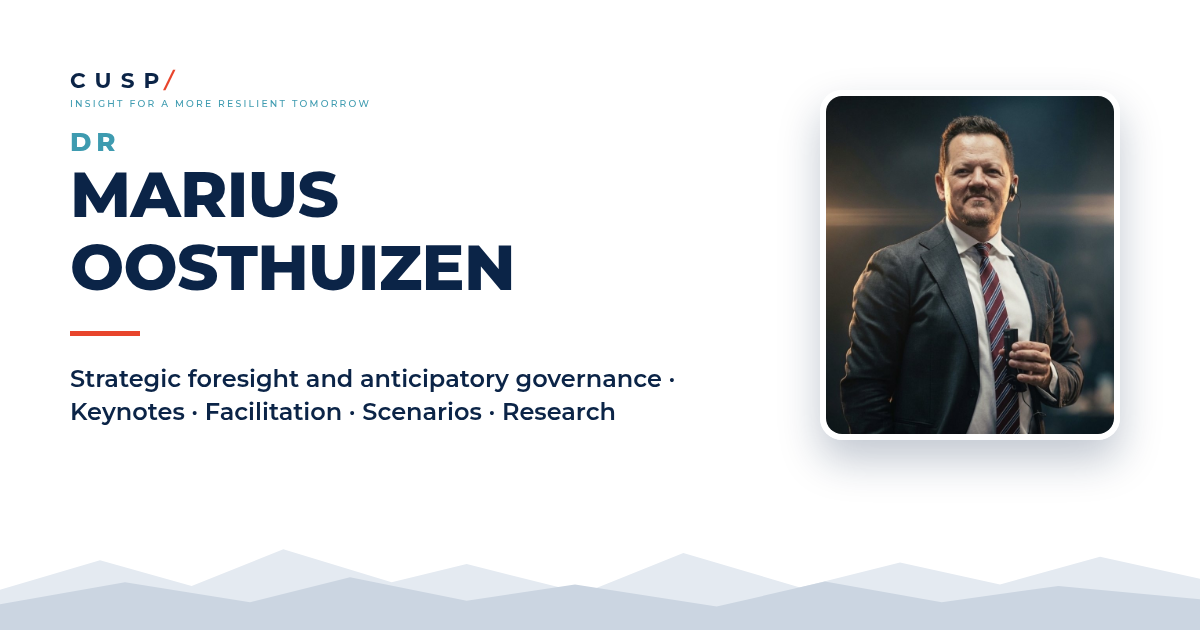
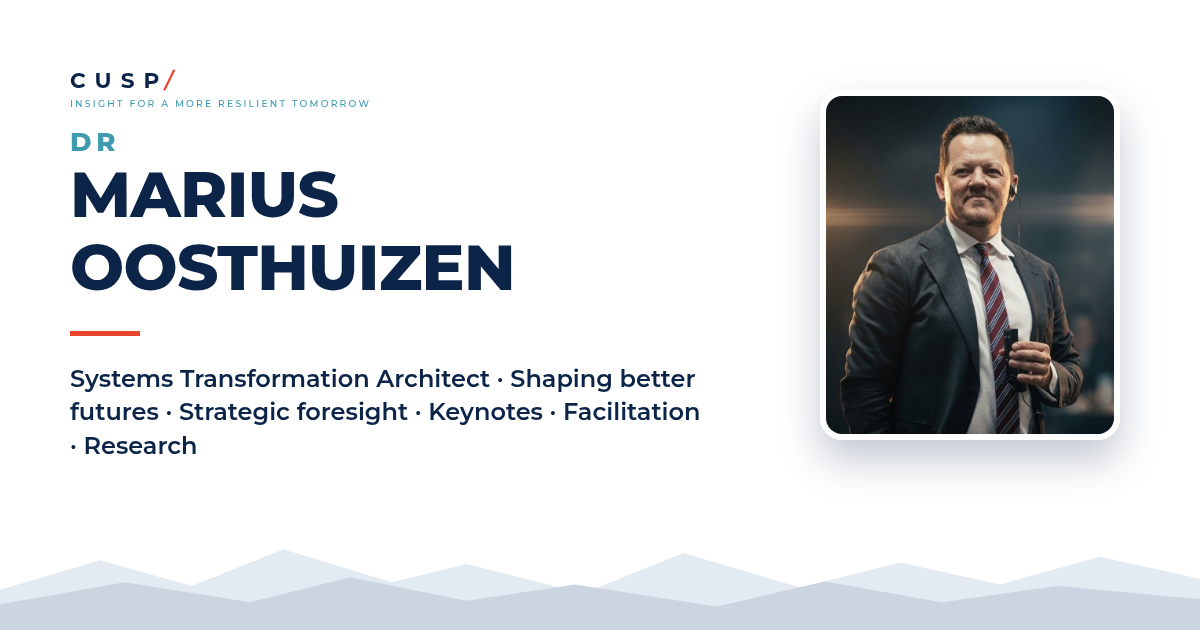
Position as Systems Transformation Architect; add CUSP approach (six practices), STA paper, updated preview image

Changed region(s): [[0.0617, 0.573, 0.5858, 0.7238]]

diff --git a/index.html b/index.html
@@ -3,8 +3,8 @@
 <head>
 <meta charset="utf-8">
 <meta name="viewport" content="width=device-width,initial-scale=1">
-<title>Dr Marius Oosthuizen | CUSP Strategic Foresight</title>
-<meta name="description" content="Dr Marius Oosthuizen is a South African futurist and specialist in strategic foresight and anticipatory governance. Keynotes, facilitation, scenario planning, consulting, research and teaching, from Pretoria to the world.">
+<title>Dr Marius Oosthuizen | Systems Transformation Architect | CUSP</title>
+<meta name="description" content="Dr Marius Oosthuizen is a systems transformation architect and strategic foresight specialist who helps leaders and institutions anticipate and shape better futures through ethical foresight, systems thinking and inclusive dialogue. Keynotes, facilitation, scenarios, consulting, research and teaching.">
 <meta name="author" content="Dr Marius Oosthuizen">
 <meta name="theme-color" content="#0B2447">
 <!-- When the site has its final address, set it here and in og:url / og:image (absolute URLs). -->
@@ -12,16 +12,16 @@
 <meta property="og:url" content="https://mariusoost-sketch.github.io/">
 <meta property="og:type" content="website">
 <meta property="og:site_name" content="CUSP Strategic Foresight">
-<meta property="og:title" content="Dr Marius Oosthuizen | CUSP Strategic Foresight">
-<meta property="og:description" content="Strategic foresight and anticipatory governance for leaders in Africa and beyond: keynotes, facilitation, scenario planning, consulting, research and teaching.">
+<meta property="og:title" content="Dr Marius Oosthuizen | Systems Transformation Architect | CUSP">
+<meta property="og:description" content="Shaping better futures: helping people and institutions sense change, see systems, build coalitions, design processes and shift systems toward preferable futures.">
 <meta property="og:image" content="https://mariusoost-sketch.github.io/assets/img/og-image.png">
 <meta property="og:image:width" content="1200">
 <meta property="og:image:height" content="630">
 <meta property="og:image:alt" content="CUSP Strategic Foresight: Dr Marius Oosthuizen, with the CUSP cone of plausibility">
 <meta property="og:locale" content="en_ZA">
 <meta name="twitter:card" content="summary_large_image">
-<meta name="twitter:title" content="Dr Marius Oosthuizen | CUSP Strategic Foresight">
-<meta name="twitter:description" content="Strategic foresight and anticipatory governance: keynotes, facilitation, scenario planning, consulting, research and teaching.">
+<meta name="twitter:title" content="Dr Marius Oosthuizen | Systems Transformation Architect | CUSP">
+<meta name="twitter:description" content="Shaping better futures: helping people and institutions sense change, see systems, build coalitions, design processes and shift systems toward preferable futures.">
 <meta name="twitter:image" content="https://mariusoost-sketch.github.io/assets/img/og-image.png">
 <link rel="icon" href="assets/img/favicon.svg" type="image/svg+xml">
 <link rel="icon" href="assets/img/favicon-32.png" sizes="32x32" type="image/png">
@@ -35,7 +35,7 @@
   "@type":"Person",
   "name":"Marius Oosthuizen",
   "honorificPrefix":"Dr",
-  "jobTitle":"Strategic foresight and anticipatory governance specialist; Professor of Foresight, Future Readiness Academy (Abu Dhabi)",
+  "jobTitle":"Systems Transformation Architect; strategic foresight and anticipatory governance specialist; Professor of Foresight, Future Readiness Academy (Abu Dhabi)",
   "email":"mailto:mariusoost@gmail.com",
   "address":{"@type":"PostalAddress","addressLocality":"Pretoria","addressCountry":"ZA"},
   "worksFor":{"@type":"Organization","name":"CUSP Strategic Foresight","foundingDate":"2015"},
@@ -73,11 +73,11 @@
 <section class="hero" aria-labelledby="hero-title">
   <div class="wrap hero-grid">
     <div>
-      <p class="eyebrow">CUSP Strategic Foresight · Pretoria, South Africa</p>
+      <p class="eyebrow">CUSP · Shaping better futures · Pretoria, South Africa</p>
       <h1 id="hero-title"><span class="dr">Dr</span>Marius Oosthuizen</h1>
-      <p class="title">Futurist · Strategic foresight and anticipatory governance specialist · Professor of Foresight, Future Readiness Academy (Abu Dhabi)</p>
+      <p class="title">Systems Transformation Architect · Strategic foresight and anticipatory governance · Professor of Foresight, Future Readiness Academy (Abu Dhabi)</p>
       <div class="rule" aria-hidden="true"></div>
-      <p class="lede">I help governments, international organisations and business leaders <span class="hl">see ahead, test their choices against plausible futures</span> and turn that foresight into strategy, policy and institutional capability, with a focus on human-centric systems change in Africa.</p>
+      <p class="lede">I help people and institutions <span class="hl">sense change, see systems, build coalitions, design processes and shift systems toward preferable futures</span>, working with governments, international organisations and business, with a focus on human-centric systems change in Africa.</p>
       <div class="hero-ctas">
         <a class="btn btn-primary" href="mailto:mariusoost@gmail.com?subject=Book%20Marius%3A%20enquiry%20via%20the%20CUSP%20website">Book Marius <span aria-hidden="true">→</span></a>
         <a class="btn btn-ghost" href="#services">How I work</a>
@@ -141,8 +141,9 @@
   <div class="wrap about-grid">
     <div>
       <p class="kicker">About</p>
-      <h2 id="about-title">Helping leaders act with confidence before the future is clear</h2>
-      <p class="lede">Dr Marius Oosthuizen is a South African futurist, academic and specialist in strategic foresight and anticipatory governance, based in Pretoria.</p>
+      <h2 id="about-title">Helping leaders and institutions anticipate and shape better futures</h2>
+      <p class="lede">Dr Marius Oosthuizen is a South African futurist, systems transformation architect and specialist in strategic foresight and anticipatory governance, based in Pretoria.</p>
+      <p>His North Star is to help leaders and institutions anticipate and shape better futures through ethical foresight, systems thinking and inclusive dialogue. One question guides the work: <em>how do societies intentionally shape systems towards fair, inclusive and sustainable futures?</em></p>
       <p>His work is about building the capability to see ahead: reading weak signals, developing scenarios and turning foresight into better strategy and policy. He helps strategic leaders in government, business and civil society adapt to complex challenges, combining ethical awareness with future-oriented strategy. Through CUSP, his practice for foresight, keynotes, facilitation and teaching, he focuses on human-centric systems change in Africa, with particular attention to energy transitions, infrastructure and development.</p>
       <p>Marius is Professor of Foresight at the Future Readiness Academy (Abu Dhabi) and serves on the co-chairs committee guiding the World Energy Council's global scenarios. He is the foresight consultant on the United Nations Population Fund's (UNFPA) Six Country Demographic Resilience Review Study, and works with the United Nations Department of Economic and Social Affairs (UN DESA) and its Project Office on Governance (UNPOG) on strategic foresight and AI for the public sector.</p>
       <p>Earlier, he was Strategic Foresight Expert with UN Global Pulse in the Executive Office of the Secretary-General (2024–2025), where as lead faculty of Foresight for Systems Transformation he trained more than 300 people across UN agencies and built foresight capability for the UK Foreign, Commonwealth and Development Office. He supported the Government of Indonesia on its sea-level rise resilience policy, was Director, Scenarios at the World Energy Council (2022–2023), Director, Learning at the School of International Futures (2021–2023), and faculty at the Gordon Institute of Business Science (GIBS) at the University of Pretoria (2014–2022), where Executive MBA students voted him Best Lecturer in 2018.</p>
@@ -154,6 +155,8 @@
         <dt>Based in</dt><dd>Pretoria, South Africa. Available internationally and online.</dd>
         <dt>Current roles</dt><dd>Professor of Foresight, Future Readiness Academy (Abu Dhabi); co-chairs committee, World Energy Council global scenarios; founder, CUSP Strategic Foresight</dd>
         <dt>Qualifications</dt><dd>PhD in Public Leadership, Stellenbosch University · MA in Strategic Foresight, Regent University (USA) · MPhil in Applied Social and Political Ethics, St Augustine College · Oxford Scenarios Programme, Saïd Business School</dd>
+        <dt>Core capabilities</dt><dd>Strategic foresight and scenario planning · Systems thinking and complexity · Executive facilitation and dialogue · Policy, strategy and institutional design · Teaching, curriculum and capacity building · Ethical leadership and social dialogue · Global experience in 40+ countries</dd>
+        <dt>Scholarly foundations</dt><dd>Political economy, geo-economics, geopolitics, institutional theory, grand strategy, leadership, and foresight and futures studies</dd>
         <dt>Boards and panels</dt><dd>Executive Committee, Indlulamithi Scenarios Trust (since 2018) · Former board member, Association of Professional Futurists</dd>
       </dl>
     </aside>
@@ -166,7 +169,7 @@
     <div class="section-head">
       <p class="kicker">Services</p>
       <h2 id="services-title">Six ways to work with Marius</h2>
-      <p class="lede">From a single keynote to a multi-year national foresight capability, each engagement is designed around the decision you need to make.</p>
+      <p class="lede">Bridging ideas and action: from a single keynote to lasting foresight and scenario capability, each engagement is designed around the decision you need to make.</p>
     </div>
     <div class="cards">
       <article class="card">
@@ -219,9 +222,37 @@
 <section id="approach" aria-labelledby="approach-title">
   <div class="wrap">
     <div class="section-head">
-      <p class="kicker">Approach</p>
-      <h2 id="approach-title">From today's uncertainty to better decisions</h2>
-      <p class="lede">CUSP works with the cone of plausibility: exploring probable, plausible and possible futures, clarifying a preferred future, and drawing a strategy line from the present towards it.</p>
+      <p class="kicker">The CUSP approach</p>
+      <h2 id="approach-title">Six practices for shaping better futures</h2>
+      <blockquote class="sta-quote">
+        <p>A Systems Transformation Architect is “an integrative public leader who works across institutional, sectoral, and epistemic boundaries to help actors understand systemic conditions, imagine preferable futures, identify leverage points, build coalitions, design transformation processes, and mobilize coordinated interventions that shift the behavior, structure, and trajectory of complex systems.”</p>
+        <footer>From <cite>The Systems Transformation Architect</cite>, Marius Oosthuizen (2026)</footer>
+      </blockquote>
+    </div>
+    <ol class="practices">
+      <li><h3>Anticipate</h3><p>Sense change. Explore futures. Hold long horizons.</p></li>
+      <li><h3>Understand</h3><p>See systems. Diagnose root conditions. Find leverage.</p></li>
+      <li><h3>Convene</h3><p>Build trust across divides. Facilitate dialogue. Create shared purpose.</p></li>
+      <li><h3>Design</h3><p>Co-create strategies, policies and solutions that are practical and just.</p></li>
+      <li><h3>Transform</h3><p>Shift institutions and systems. Scale what works.</p></li>
+      <li><h3>Narrate</h3><p>Shape stories. Communicate truth. Inspire action.</p></li>
+    </ol>
+    <div class="purpose-band">
+      <p class="purpose"><span>At the centre</span>Human dignity. Justice. Common good. A flourishing future for all.</p>
+      <p class="scales"><span>Across scales</span>Local · National · Regional · Continental · Global, with multi-stakeholder coalitions</p>
+    </div>
+    <div class="impact">
+      <h3>Measures of impact</h3>
+      <ul>
+        <li>Systems better aligned to justice and the common good</li>
+        <li>Institutions more adaptive and collaborative</li>
+        <li>Communities more empowered and resilient</li>
+        <li>Futures more hopeful than inherited</li>
+      </ul>
+    </div>
+    <div class="section-head tools-head">
+      <h3>Two CUSP tools</h3>
+      <p>The cone of plausibility explores probable, plausible and possible futures, clarifies a preferred future, and draws a strategy line from the present towards it. From foresight to strategy turns that exploration into a resilient strategy response.</p>
     </div>
     <div class="approach-grid">
       <figure>
@@ -305,6 +336,7 @@
     </div>
     <div class="pubs">
       <ul class="pub-list">
+        <li><span class="pub-type">Practitioner-theory paper · May 2026</span><h3>The Systems Transformation Architect: An Emerging Professional Role for Integrative Public Leadership and Institutional Innovation</h3><p>Argues that a new professional role is emerging at the intersection of strategic foresight, systems thinking, public entrepreneurship, institutional innovation and multi-stakeholder governance: an integrative actor who helps institutions and coalitions sense systemic change, convene across boundaries, identify leverage points, shape narratives, design participatory processes and mobilise coordinated action toward preferable futures.</p></li>
         <li><span class="pub-type">Working paper · 2026</span><h3>Waves of Consequence: Introducing the Event Horizon Contagion Method for Structured Pattern Recognition</h3><p>A multi-wave foresight method integrating Three Horizons, futures wheels, cross-impact analysis and morphological scenarios, with an applied case study of geopolitical and economic contagion.</p></li>
         <li><span class="pub-type">Working paper · 2026</span><h3>Scanning Framework: National-Level Foresight</h3><p>A national-level horizon scanning architecture for public managers, with a seven-move protocol, worksheet and facilitator notes.</p></li>
         <li><span class="pub-type">White paper · 2026</span><h3>Scanning Framework: Urban Governance, Economies and Spatial Design</h3><p>A practice-led white paper for foresight practitioners and public managers, first drawn in 2018.</p></li>
@@ -404,7 +436,8 @@
   <div class="wrap footer-grid">
     <div>
       <span class="wordmark">CUSP<span class="slash" aria-hidden="true">/</span></span>
-      <p style="margin:8px 0 0">© <span id="year">2026</span> CUSP Strategic Foresight · Dr Marius Oosthuizen · Pretoria, South Africa</p>
+      <p class="footer-tag">Bridging ideas and action. Advancing fairness. Building the future, together.</p>
+      <p style="margin:4px 0 0">© <span id="year">2026</span> CUSP Strategic Foresight · Dr Marius Oosthuizen · Pretoria, South Africa</p>
     </div>
     <ul>
       <li><a href="mailto:mariusoost@gmail.com">mariusoost@gmail.com</a></li>

diff --git a/assets/css/styles.css b/assets/css/styles.css
@@ -221,3 +221,29 @@ figcaption{padding:14px 18px;font-size:.9rem;font-style:italic}
   .stats strong{font-size:1.3rem}
   .enquiry{padding:22px}
 }
+
+/* ---------- CUSP approach (v3) ---------- */
+.sta-quote{margin:8px 0 0;padding:22px 26px;border-left:4px solid var(--accent);background:var(--soft);border-radius:0 var(--radius) var(--radius) 0;max-width:860px}
+.sta-quote p{font-size:1.08rem;color:var(--ink);margin:0 0 10px;font-style:italic}
+.sta-quote footer{font:600 .82rem "Montserrat",sans-serif;color:var(--blue);letter-spacing:.04em}
+.practices{list-style:none;margin:0 0 26px;padding:0;display:grid;grid-template-columns:repeat(3,1fr);gap:18px;counter-reset:pr}
+.practices li{counter-increment:pr;background:#fff;border:1px solid var(--line);border-radius:var(--radius);padding:22px 22px 18px;position:relative;overflow:hidden}
+.practices li::after{content:"";position:absolute;left:0;right:0;bottom:0;height:4px;background:var(--grad)}
+.practices h3{font-size:1.1rem;text-transform:uppercase;letter-spacing:.12em;margin-bottom:6px;display:flex;align-items:center;gap:12px}
+.practices h3::before{content:counter(pr,decimal-leading-zero);font-size:.8rem;color:var(--accent);letter-spacing:.04em}
+.practices p{margin:0;font-size:.97rem}
+.purpose-band{display:grid;grid-template-columns:1fr 1fr;gap:18px;margin-bottom:18px}
+.purpose-band p{margin:0;background:var(--navy);color:#fff;border-radius:var(--radius);padding:20px 24px;font:600 1.02rem/1.45 "Montserrat",sans-serif}
+.purpose-band .scales{background:#fff;color:var(--navy);border:1px solid var(--line)}
+.purpose-band span{display:block;font:700 .72rem "Montserrat",sans-serif;letter-spacing:.2em;text-transform:uppercase;color:var(--teal-2);margin-bottom:6px}
+.purpose-band .scales span{color:var(--blue)}
+.impact{border:1px solid var(--line);border-radius:var(--radius);padding:22px 24px;margin-bottom:56px}
+.impact h3{font-size:.95rem;letter-spacing:.14em;text-transform:uppercase;color:var(--blue);margin-bottom:12px}
+.impact ul{list-style:none;margin:0;padding:0;display:grid;grid-template-columns:repeat(4,1fr);gap:14px}
+.impact li{padding-left:16px;border-left:3px solid var(--accent);font-size:.96rem;color:var(--ink);line-height:1.4}
+.tools-head{margin-bottom:24px}
+.tools-head h3{font-size:1.35rem}
+.footer-tag{margin:8px 0 0;color:#cfe3ef;font-style:italic}
+@media (max-width:1020px){.impact ul{grid-template-columns:repeat(2,1fr)}}
+@media (max-width:860px){.practices{grid-template-columns:repeat(2,1fr)}.purpose-band{grid-template-columns:1fr}}
+@media (max-width:560px){.practices,.impact ul{grid-template-columns:1fr}.sta-quote{padding:18px}}
